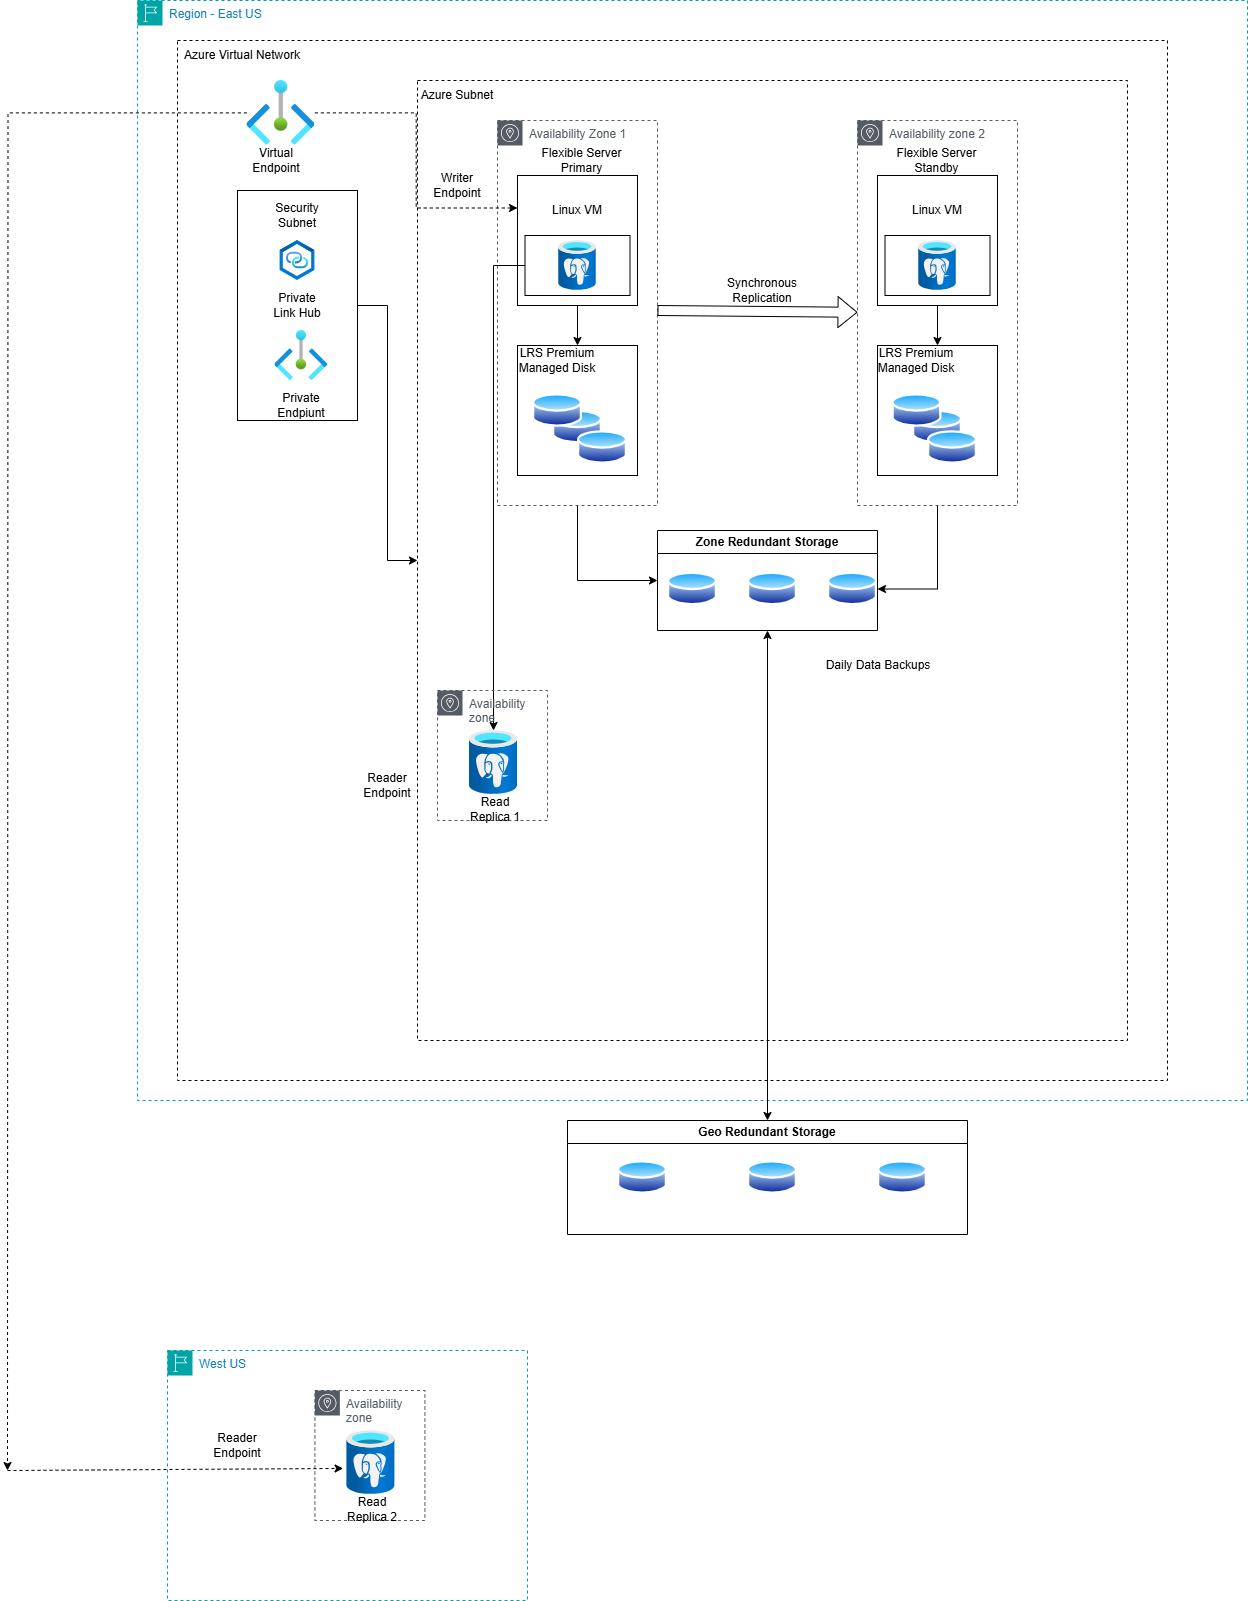
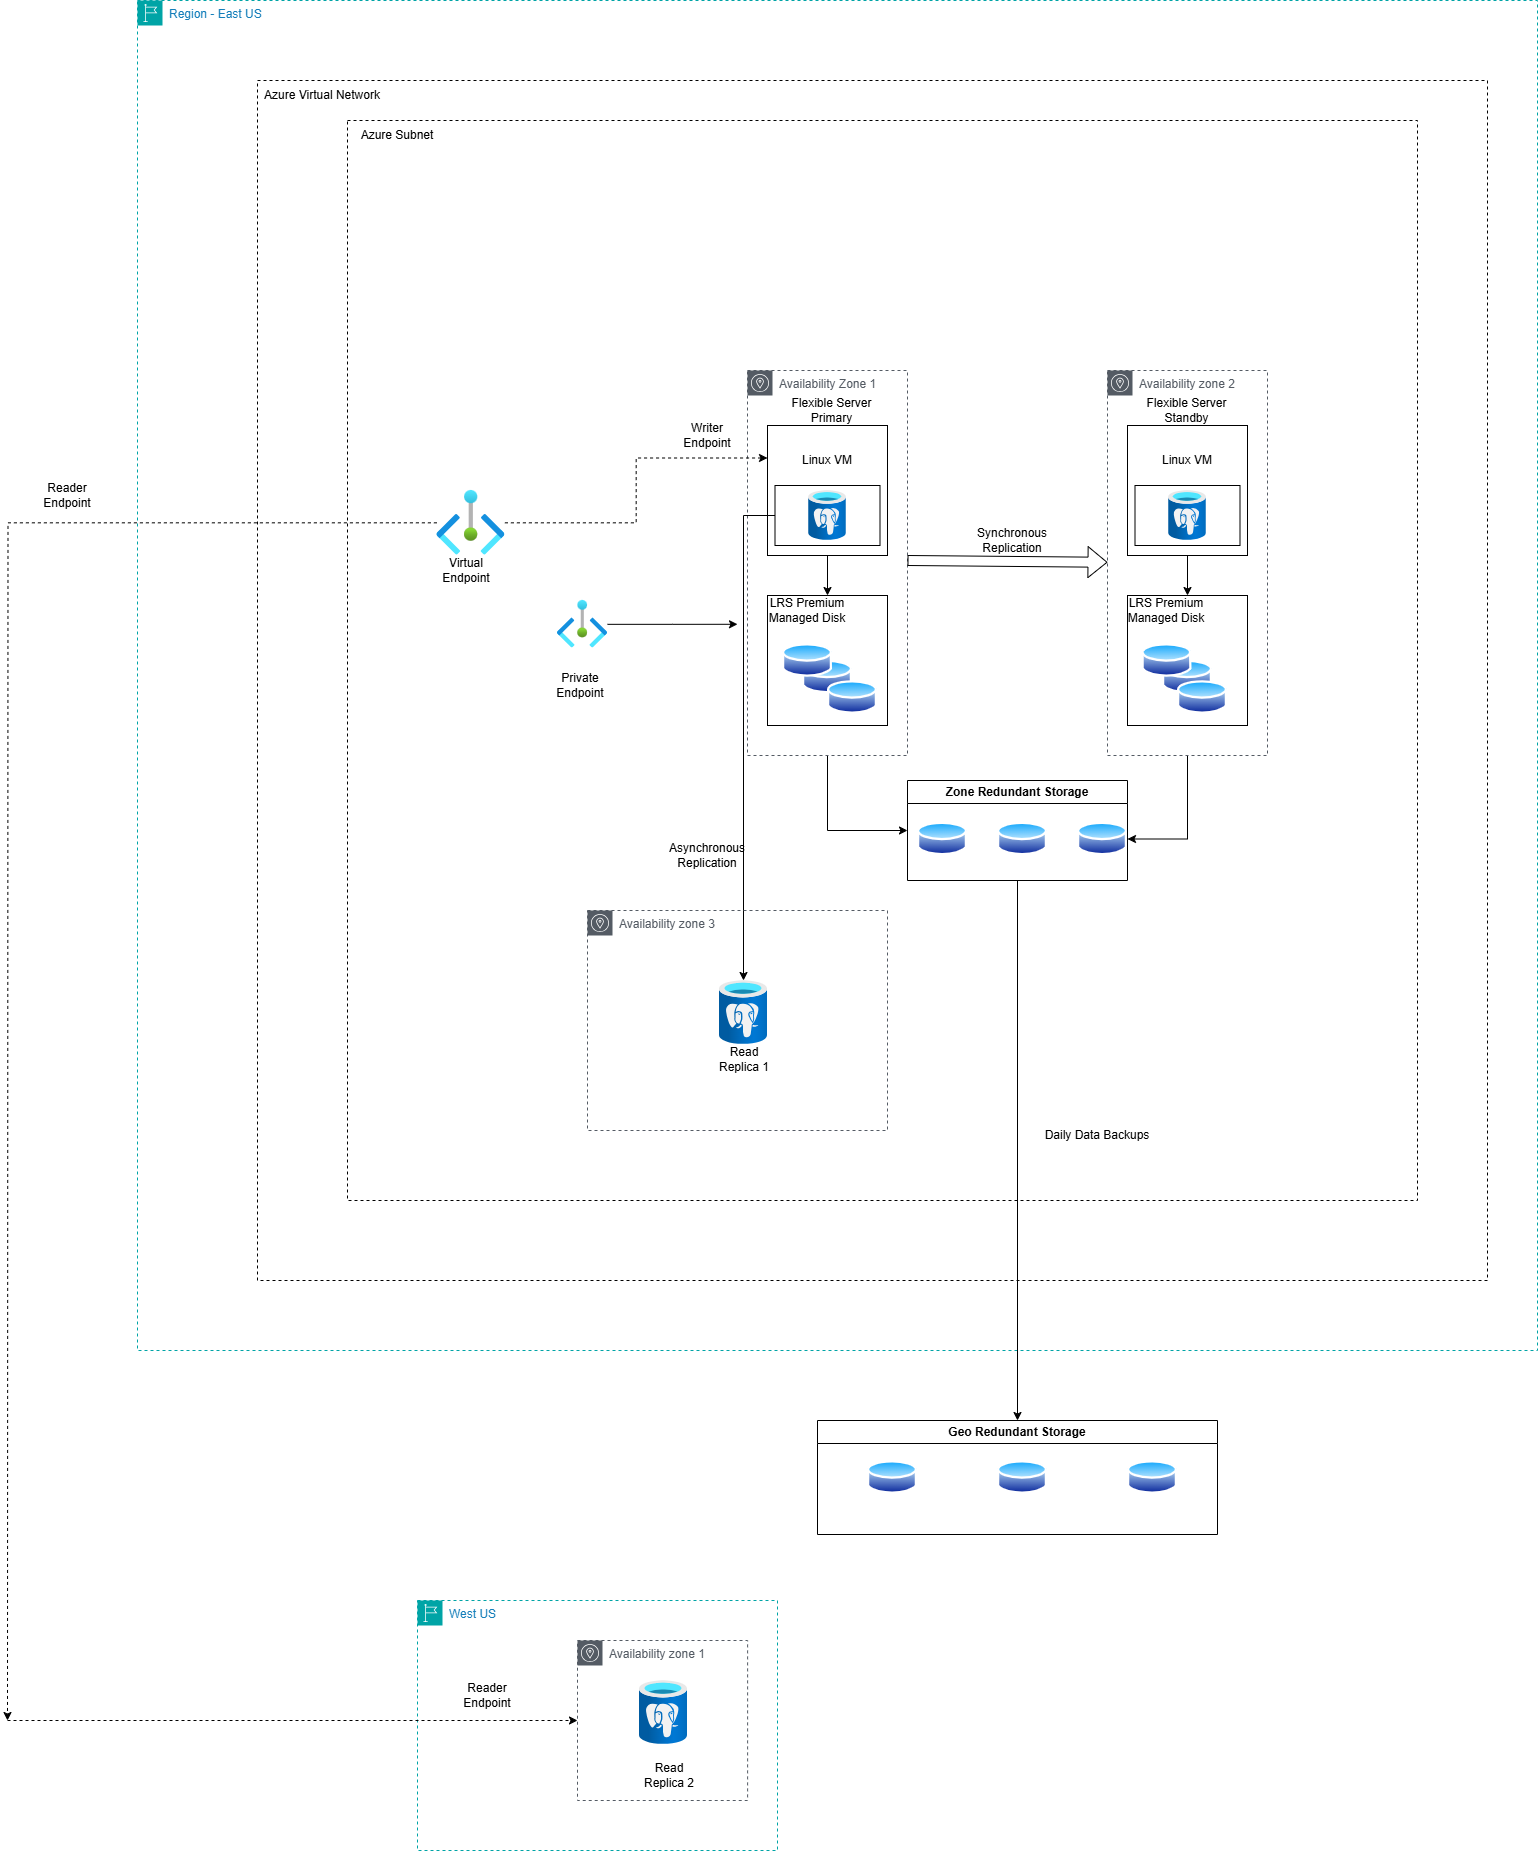
Deleted images and improved variable names

diff --git a/README.md b/README.md
@@ -14,7 +14,7 @@ We are excited to launch the solution accelerator for deploying Azure Database f
 Azure Database for PostgreSQL flexible server is built on a resilient Azure infrastructure, incorporating features essential for ensuring high availability and fault tolerance, ensuring your databases remain operational. When architecting applications, it is critical to consider the following objectives:
 
 #### 1. Recovery Time Objective (RTO)
-RTO is the maximum acceptable downtime for an application. Different applications have varying tolerance levels—for instance, a business-critical database demands much stricter uptime compared to a test database.
+RTO is the maximum acceptable downtime for an application. Different applications have varying tolerance levels for instance, a business-critical database demands much stricter uptime compared to a test database.
 
 #### 2. Recovery Point Objective (RPO)
 RPO refers to the maximum acceptable amount of data loss measured in time. Assessing how much data loss your business can tolerate in the event of a disruption is vital.
@@ -93,25 +93,23 @@ In this architecture we recommend using Private endpoint for the Azure Database 
 Three variants exist in the Azure Database for PostgreSQL resiliency architecture:
 
 ### 1. Zonal resilience (without read replica)
-This configuration includes one primary instance of the Azure PostgreSQL flexible server with high availability enabled. In this configuration, enabling high availability for the instance allows you to deploy the standby instance using two options, by modifying the "mode" attribute. This attribute can have either "ZoneRedundant" or "SameZone" value.
+This architecture provisions Azure Database for PostgreSQL flexible server with high availability enabled using the "Zone-Redundant" option. The primary and standby instances are deployed in different availability zones, ensuring resilience against zonal failures. With this configuration, you achieve a Recovery Point Objective (RPO) of zero and a Recovery Time Objective (RTO) of less than 120 seconds. Zone-redundant high availability provides automatic failover, robust protection from zonal outages, and high service-level agreements (SLAs), making it an ideal choice for mission-critical workloads.
 
-**Zone resilient:** Deploying standby in different zone.
+**Zone resilient:** Deploying a standby instance in a different availability zone ensures high availability and protection against zonal failures. This configuration also maintains three copies of your data within the region, providing additional redundancy and data durability.
 
-![screenshot](Images/zoneredundant1.png)
+![screenshot](Images/withoutgeobackup.png)
 
-**Zone resilient with geographically redundant backups:** Deploying standby in a different zone, along with geographically redundant backups. This option can be enabled while creating an instance of flexible server.
+**Zone resilience with geo-redundant backups:** Deploying a standby instance in a different availability zone and enabling geo-redundant backups provides robust protection against both zonal and regional failures. Geo-redundant backups, configured during flexible server creation, ensure data is securely replicated to a paired region. This configuration strengthens disaster recovery capabilities and supports business continuity during major outages.
 
 ![screenshot](Images/zonalresilience.png)
 
 ### 2. Zonal resilience (with read replica)
-This configuration includes one primary instance and one read replica within the same region. 
-
-This configuration includes an instance of Azure PostgreSQL flexible server with high availability enabled, with one read replica in the same region as the primary instance. In this setup, you can configure the "zone" attribute, which specifies the value for the availability zone, similar to the options available in the portal. In regions where it's supported, Azure PostgreSQL flexible server offers three availability zones. You can select any of 1,2,3 availability zones for your primary instance, a standby instance gets deployed in a different zone than that of primary instance. 
+This configuration deploys a flexible server instance with High Availability enabled using the "ZoneRedundant" option, geo-redundant backups, and a read replica in the same region as the primary. This setup provides protection against zonal outages and supports scaling out read-heavy workloads by directing read traffic to the replica through virtual endpoints.
 
 ![screenshot](Images/inregion-readreplica.png)
 
 ### 3. Regional resilience
-This architecture supports one primary instance with high availability enabled, and one read replica in the same region and another read replica in a different region. Azure PostgreSQL supports deployment of up to five read replicas on any region. You can add more read replicas to different regions, to make it more region resilient.
+This architecture deploys a flexible server instance with High Availability enabled using the "ZoneRedundant" option and geo-redundant backups configured at server creation. It provisions one read replica in the same region as the primary server but in a different zone, along with another read replica in a different region. This setup ensures protection against both zonal and regional outages. The cross-region read replica supports a robust disaster recovery strategy, maintaining a Recovery Point Objective (RPO) of less than 5 minutes. In the event of a regional failover, the cross-region read replica can be promoted to serve as the new primary instance, enabling applications to remain operational with minimal downtime. This architecture offers the highest level of resiliency, covering all failure scenarios from zonal to regional outages, making it well suited for mission-critical workloads.
 
 ![screenshot](Images/cross-regionreadreplica.png)
 
